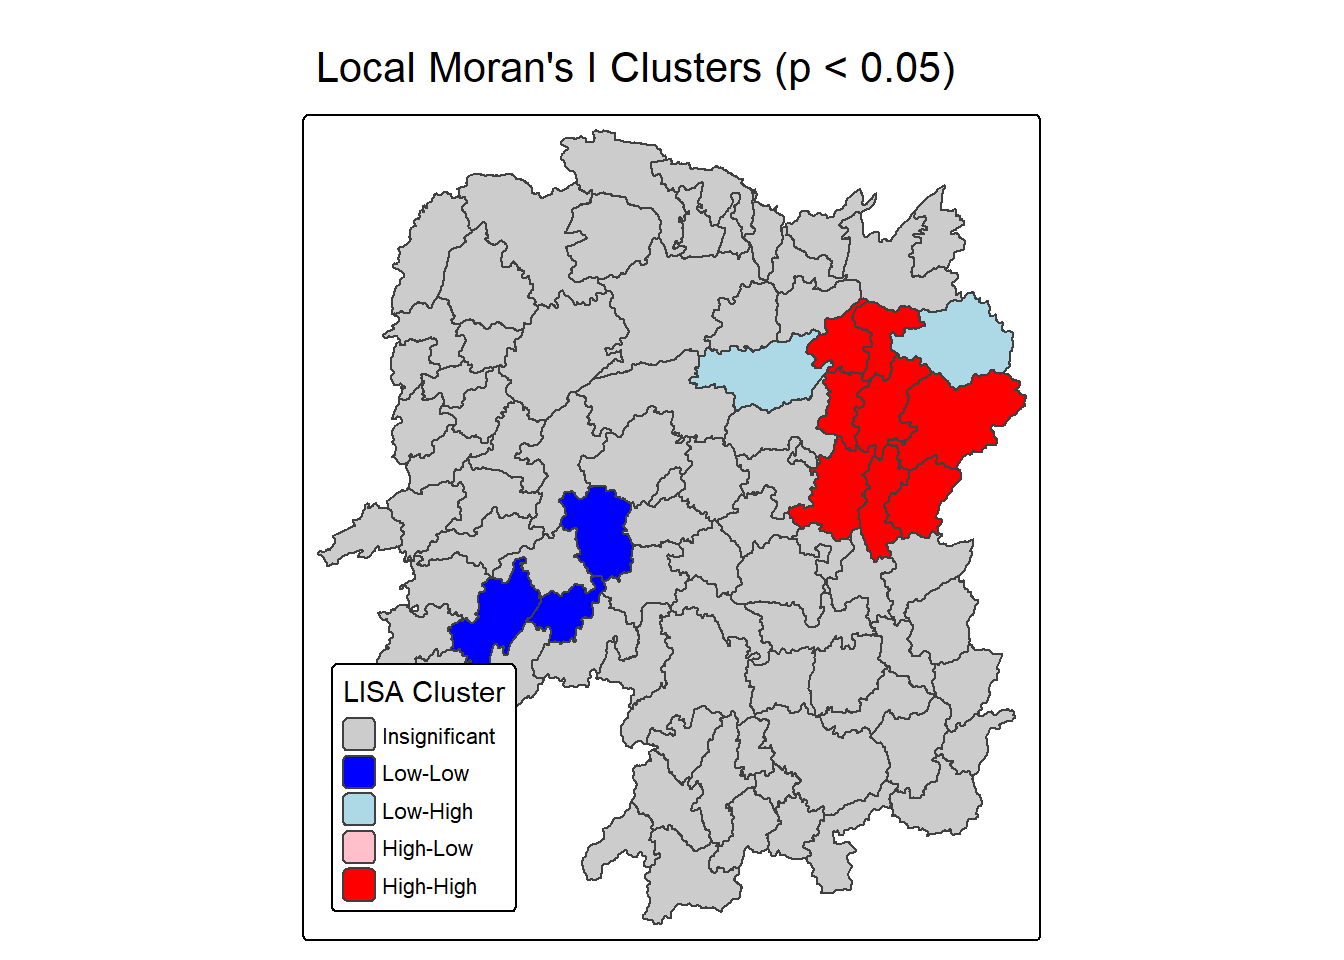
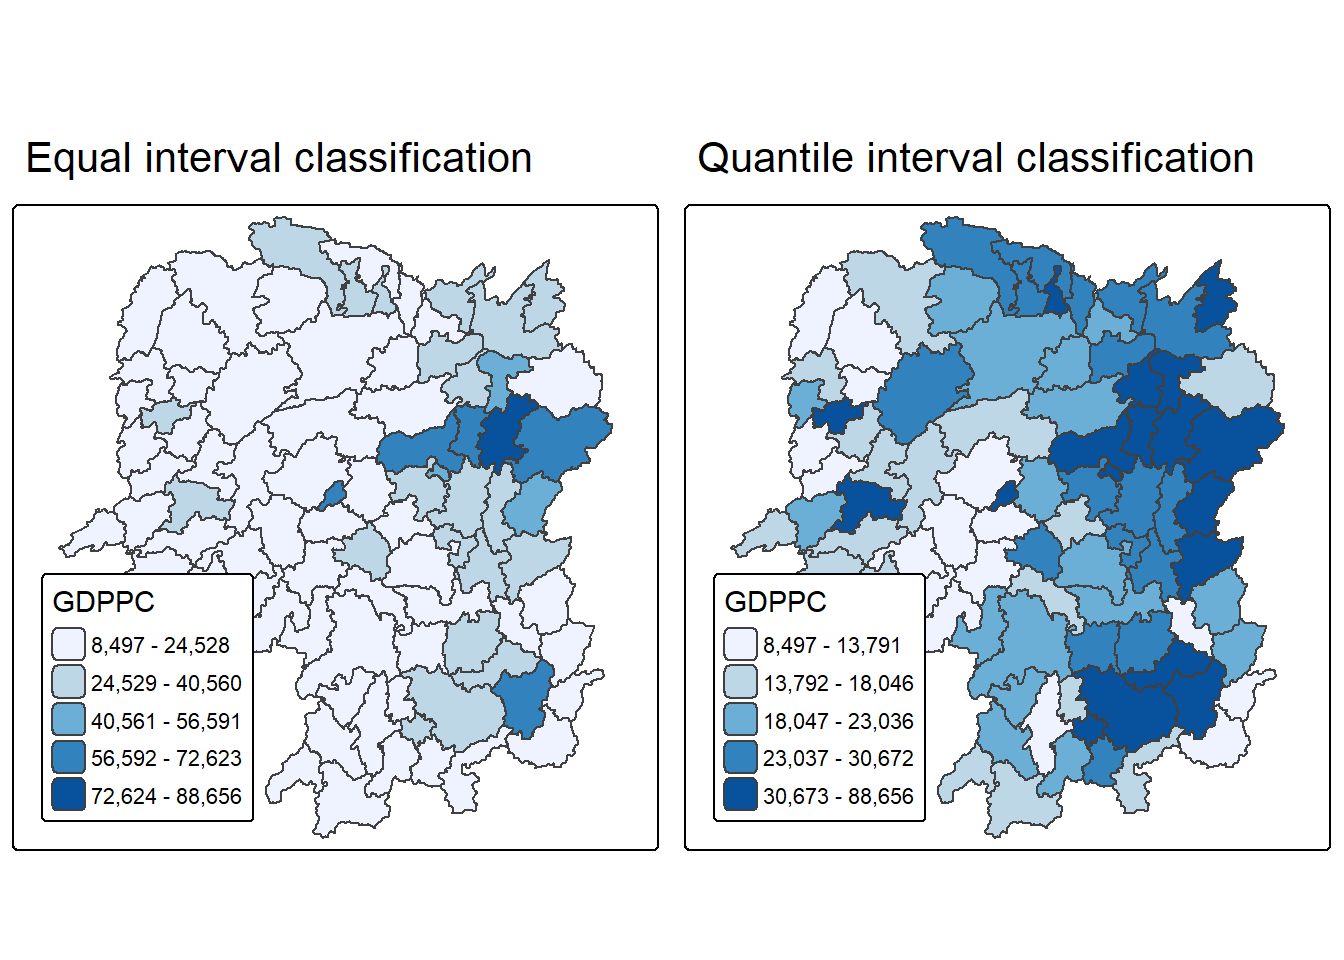
Commit 5

diff --git a/Hands-on_Ex5b/Hands-on_Ex5b.html b/Hands-on_Ex5b/Hands-on_Ex5b.html
@@ -8,7 +8,7 @@
 
 <meta name="dcterms.date" content="2026-09-20">
 
-<title>Global Measures of Spatial Autocorrelation” – ISSS626 : Geospatial Analytics and Applications</title>
+<title>Local Measures of Spatial Autocorrelation” – ISSS626 : Geospatial Analytics and Applications</title>
 <style>
 /* Default styles provided by pandoc.
 ** See https://pandoc.org/MANUAL.html#variables-for-html for config info.
@@ -262,7 +262,7 @@ pre > code.sourceCode > span > a:first-child::before { text-decoration: underlin
 
 <header id="title-block-header" class="quarto-title-block default">
 <div class="quarto-title">
-<h1 class="title">Global Measures of Spatial Autocorrelation”</h1>
+<h1 class="title">Local Measures of Spatial Autocorrelation”</h1>
 </div>
 
 
@@ -871,30 +871,26 @@ Note
 <span id="cb25-6"><a href="#cb25-6" aria-hidden="true" tabindex="-1"></a>                <span class="at">values =</span> <span class="st">"brewer.RdBu"</span>),</span>
 <span id="cb25-7"><a href="#cb25-7" aria-hidden="true" tabindex="-1"></a>              <span class="at">fill.legend =</span> <span class="fu">tm_legend</span>(</span>
 <span id="cb25-8"><a href="#cb25-8" aria-hidden="true" tabindex="-1"></a>                <span class="at">title =</span> <span class="st">"Local Moran's I"</span>,</span>
-<span id="cb25-9"><a href="#cb25-9" aria-hidden="true" tabindex="-1"></a>                <span class="at">position =</span> <span class="fu">tm_pos_in</span>(</span>
-<span id="cb25-10"><a href="#cb25-10" aria-hidden="true" tabindex="-1"></a>                  <span class="st">"left"</span>, <span class="st">"bottom"</span>))) <span class="sc">+</span> </span>
-<span id="cb25-11"><a href="#cb25-11" aria-hidden="true" tabindex="-1"></a>  <span class="fu">tm_borders</span>(<span class="at">fill_alpha =</span> <span class="fl">0.5</span>) <span class="sc">+</span></span>
-<span id="cb25-12"><a href="#cb25-12" aria-hidden="true" tabindex="-1"></a>  <span class="fu">tm_title</span>(<span class="st">"Loal Moran's I of GDPPC (Queen's method)"</span>)</span>
-<span id="cb25-13"><a href="#cb25-13" aria-hidden="true" tabindex="-1"></a></span>
-<span id="cb25-14"><a href="#cb25-14" aria-hidden="true" tabindex="-1"></a>lisa_map <span class="ot">&lt;-</span> <span class="fu">tm_shape</span>(lisa) <span class="sc">+</span> </span>
-<span id="cb25-15"><a href="#cb25-15" aria-hidden="true" tabindex="-1"></a>  <span class="fu">tm_polygons</span>( </span>
-<span id="cb25-16"><a href="#cb25-16" aria-hidden="true" tabindex="-1"></a>    <span class="at">fill =</span> <span class="st">"LISA_cluster"</span>, </span>
-<span id="cb25-17"><a href="#cb25-17" aria-hidden="true" tabindex="-1"></a>    <span class="at">fill.scale =</span> <span class="fu">tm_scale_categorical</span>( </span>
-<span id="cb25-18"><a href="#cb25-18" aria-hidden="true" tabindex="-1"></a>      <span class="at">values =</span> <span class="fu">c</span>( </span>
-<span id="cb25-19"><a href="#cb25-19" aria-hidden="true" tabindex="-1"></a>        <span class="st">"grey80"</span>, <span class="co"># Insignificant </span></span>
-<span id="cb25-20"><a href="#cb25-20" aria-hidden="true" tabindex="-1"></a>        <span class="st">"blue"</span>, <span class="co"># Low-Low </span></span>
-<span id="cb25-21"><a href="#cb25-21" aria-hidden="true" tabindex="-1"></a>        <span class="st">"lightblue"</span>, <span class="co"># Low-High </span></span>
-<span id="cb25-22"><a href="#cb25-22" aria-hidden="true" tabindex="-1"></a>        <span class="st">"pink"</span>, <span class="co"># High-Low </span></span>
-<span id="cb25-23"><a href="#cb25-23" aria-hidden="true" tabindex="-1"></a>        <span class="st">"red"</span> <span class="co"># High-High </span></span>
-<span id="cb25-24"><a href="#cb25-24" aria-hidden="true" tabindex="-1"></a>    ) </span>
-<span id="cb25-25"><a href="#cb25-25" aria-hidden="true" tabindex="-1"></a>  ), </span>
-<span id="cb25-26"><a href="#cb25-26" aria-hidden="true" tabindex="-1"></a>  <span class="at">fill.legend =</span> <span class="fu">tm_legend</span>( </span>
-<span id="cb25-27"><a href="#cb25-27" aria-hidden="true" tabindex="-1"></a>    <span class="at">title =</span> <span class="st">"LISA Cluster"</span>, </span>
-<span id="cb25-28"><a href="#cb25-28" aria-hidden="true" tabindex="-1"></a>    <span class="at">position =</span> <span class="fu">tm_pos_in</span>(<span class="st">"left"</span>, <span class="st">"bottom"</span>)) </span>
-<span id="cb25-29"><a href="#cb25-29" aria-hidden="true" tabindex="-1"></a>  ) <span class="sc">+</span> </span>
-<span id="cb25-30"><a href="#cb25-30" aria-hidden="true" tabindex="-1"></a>  <span class="fu">tm_borders</span>() <span class="sc">+</span> </span>
-<span id="cb25-31"><a href="#cb25-31" aria-hidden="true" tabindex="-1"></a>  <span class="fu">tm_title</span>(<span class="st">"Local Moran's I Clusters (p &lt; 0.05)"</span>) </span>
-<span id="cb25-32"><a href="#cb25-32" aria-hidden="true" tabindex="-1"></a>lisa_map</span></code></pre></div><button title="Copy to Clipboard" class="code-copy-button"><i class="bi"></i></button></div>
+<span id="cb25-9"><a href="#cb25-9" aria-hidden="true" tabindex="-1"></a>                <span class="at">position =</span> <span class="fu">tm_pos_in</span>(<span class="st">"left"</span>, <span class="st">"bottom"</span>))) <span class="sc">+</span></span>
+<span id="cb25-10"><a href="#cb25-10" aria-hidden="true" tabindex="-1"></a>  <span class="fu">tm_borders</span>(<span class="at">col_alpha =</span> <span class="fl">0.5</span>) <span class="sc">+</span></span>
+<span id="cb25-11"><a href="#cb25-11" aria-hidden="true" tabindex="-1"></a>  <span class="fu">tm_title</span>(<span class="st">"Local Moran's I of GDPPC (Queen's method)"</span>)</span>
+<span id="cb25-12"><a href="#cb25-12" aria-hidden="true" tabindex="-1"></a></span>
+<span id="cb25-13"><a href="#cb25-13" aria-hidden="true" tabindex="-1"></a>lisa_map <span class="ot">&lt;-</span> <span class="fu">tm_shape</span>(lisa) <span class="sc">+</span></span>
+<span id="cb25-14"><a href="#cb25-14" aria-hidden="true" tabindex="-1"></a>  <span class="fu">tm_polygons</span>(</span>
+<span id="cb25-15"><a href="#cb25-15" aria-hidden="true" tabindex="-1"></a>    <span class="at">fill =</span> <span class="st">"LISA_cluster"</span>,</span>
+<span id="cb25-16"><a href="#cb25-16" aria-hidden="true" tabindex="-1"></a>    <span class="at">fill.scale =</span> <span class="fu">tm_scale_categorical</span>(</span>
+<span id="cb25-17"><a href="#cb25-17" aria-hidden="true" tabindex="-1"></a>      <span class="at">values =</span> <span class="fu">c</span>(<span class="st">"grey80"</span>,     <span class="co"># Insignificant</span></span>
+<span id="cb25-18"><a href="#cb25-18" aria-hidden="true" tabindex="-1"></a>                 <span class="st">"blue"</span>,       <span class="co"># Low-Low</span></span>
+<span id="cb25-19"><a href="#cb25-19" aria-hidden="true" tabindex="-1"></a>                 <span class="st">"lightblue"</span>,  <span class="co"># Low-High</span></span>
+<span id="cb25-20"><a href="#cb25-20" aria-hidden="true" tabindex="-1"></a>                 <span class="st">"pink"</span>,       <span class="co"># High-Low</span></span>
+<span id="cb25-21"><a href="#cb25-21" aria-hidden="true" tabindex="-1"></a>                 <span class="st">"red"</span>)),      <span class="co"># High-High</span></span>
+<span id="cb25-22"><a href="#cb25-22" aria-hidden="true" tabindex="-1"></a>    <span class="at">fill.legend =</span> <span class="fu">tm_legend</span>(</span>
+<span id="cb25-23"><a href="#cb25-23" aria-hidden="true" tabindex="-1"></a>      <span class="at">title =</span> <span class="st">"LISA Cluster"</span>,</span>
+<span id="cb25-24"><a href="#cb25-24" aria-hidden="true" tabindex="-1"></a>      <span class="at">position =</span> <span class="fu">tm_pos_in</span>(<span class="st">"left"</span>, <span class="st">"bottom"</span>))) <span class="sc">+</span></span>
+<span id="cb25-25"><a href="#cb25-25" aria-hidden="true" tabindex="-1"></a>  <span class="fu">tm_borders</span>() <span class="sc">+</span></span>
+<span id="cb25-26"><a href="#cb25-26" aria-hidden="true" tabindex="-1"></a>  <span class="fu">tm_title</span>(<span class="st">"Local Moran's I Clusters (p &lt; 0.05)"</span>)</span>
+<span id="cb25-27"><a href="#cb25-27" aria-hidden="true" tabindex="-1"></a></span>
+<span id="cb25-28"><a href="#cb25-28" aria-hidden="true" tabindex="-1"></a><span class="fu">tmap_arrange</span>(equal, quantile, <span class="at">asp =</span> <span class="dv">1</span>, <span class="at">ncol =</span> <span class="dv">2</span>)</span></code></pre></div><button title="Copy to Clipboard" class="code-copy-button"><i class="bi"></i></button></div>
 <div class="cell-output-display">
 <div>
 <figure class="figure">
